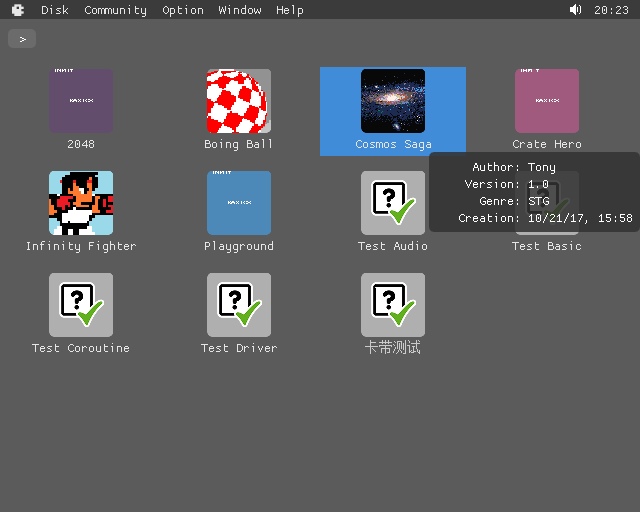
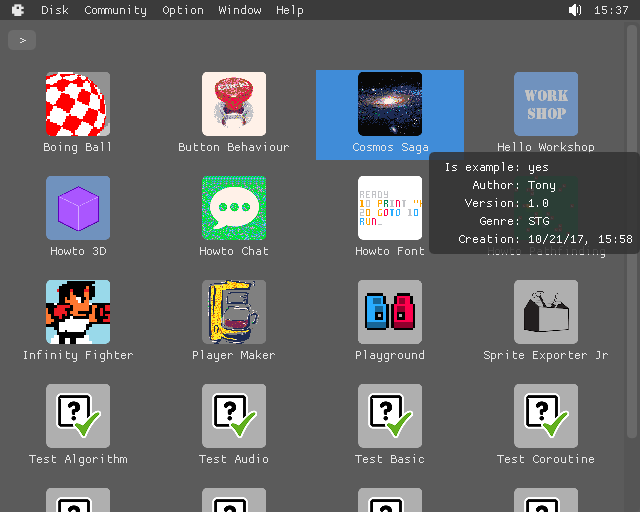
*v1.3.1.

diff --git a/docs/manual.md b/docs/manual.md
@@ -1640,7 +1640,7 @@ A single transmission or datagram cannot be longer than 32KB. Consider closing a
 
 Sent string and json always end up with a zero byte; vice versa, received string and json must end up with a terminal zero byte.
 
-If the "bytes_with_size" option is set to "true", an extra 32-bit unsigned integer will be automatically packed at head of bytes before sending, the size head itself also counts; bytes parameter in the received callback doesn't contain that head. In short words, it's transparency within BASIC8 programs, but it's helpful to communicate with other terminals to distinguish different messages, and you have to adapt the rule in other environment. You have to determine how to split bytes into message if "bytes_with_size" is set to "false".
+If the "bytes_with_size" option is set to "true", an extra 32-bit unsigned integer will be automatically packed at head of bytes before sending, the size head itself also counts; bytes parameter in the received callback doesn't contain that head. In short words, it's transparency within BASIC8 programs, but it's helpful to communicate with other endpoints to distinguish different messages, and you have to adapt the rule in other environment. You have to determine how to split bytes into message if "bytes_with_size" is set to "false".
 
 ### System
 

diff --git a/docs/changelog.md b/docs/changelog.md
@@ -1,6 +1,19 @@
 <!-- Changes are categorized in community, language, driver, libraries, editor. -->
 
-### v1.3
+### v1.3.1
+
+Libraries:
+
+* Fix a blank content issue with the `INPUT` statement
+
+Editor:
+
+* Add a disk filter
+* Add a sprite to GIF exporter
+* Fix a GIF exporting issue with few color count at the beginning frame
+* Fix an icon arranging issue
+
+### v1.3 Mar. 2018
 
 Libraries:
 
